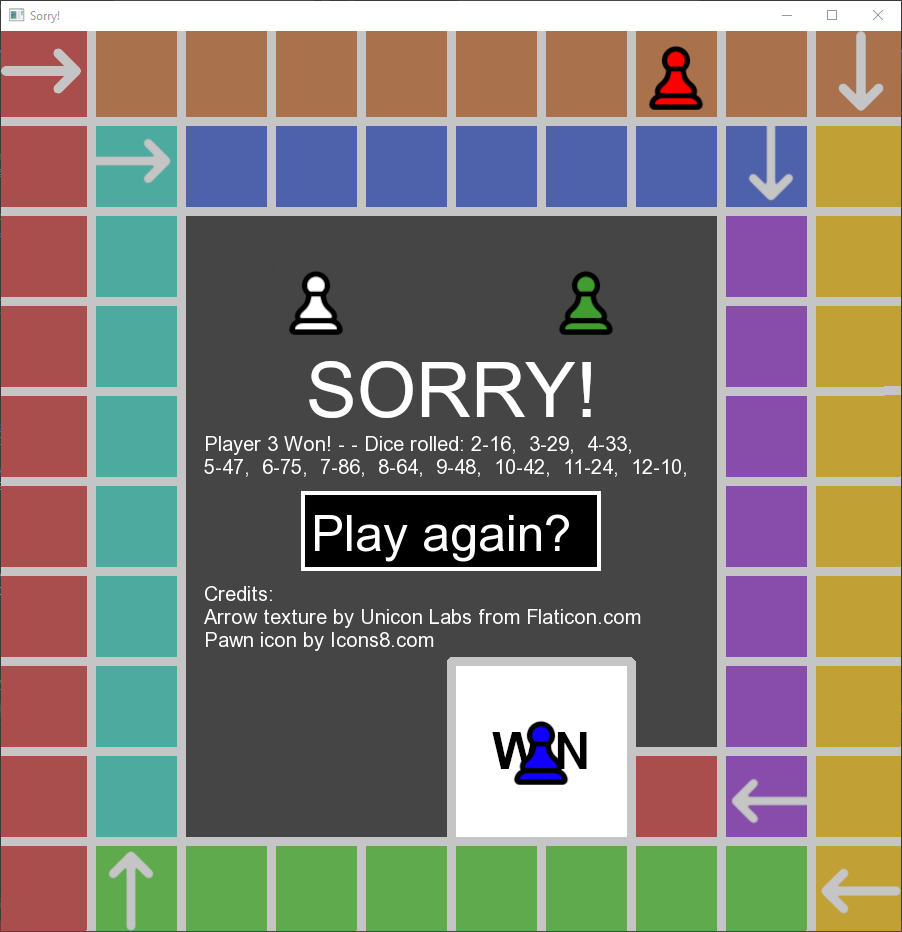
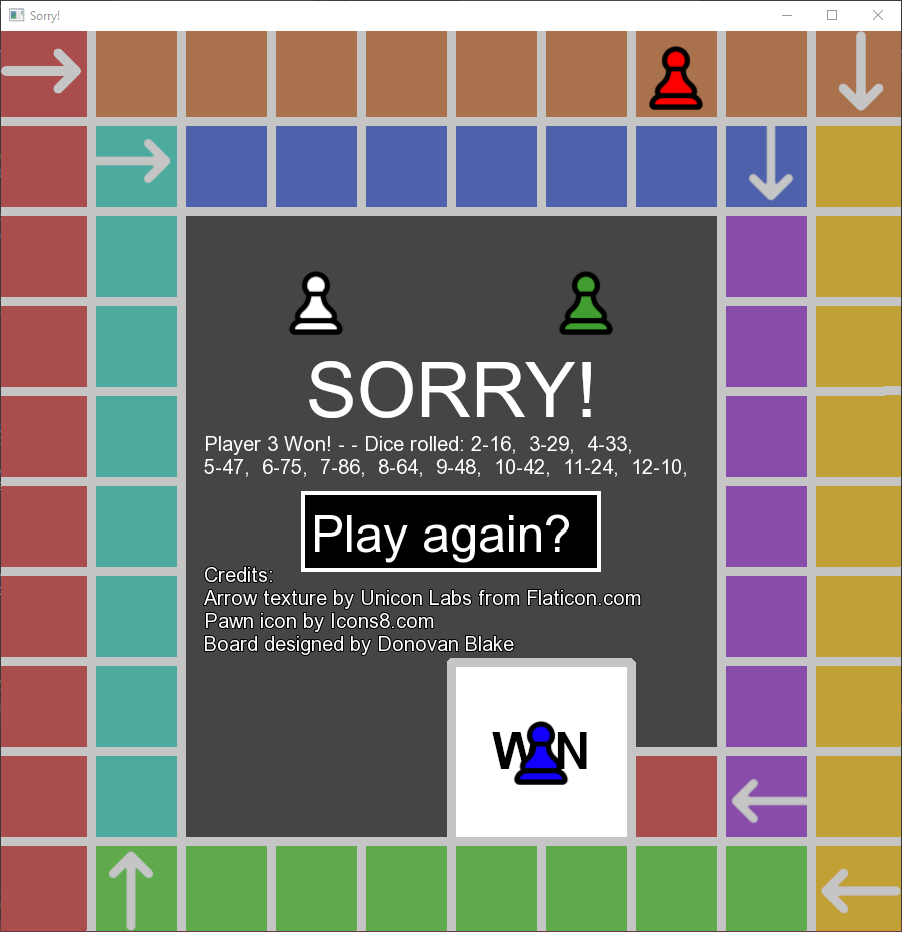
adding screenshots

Changed region(s): [[0.2173, 0.5601, 0.714, 0.7157], [0.5277, 0.5601, 0.5588, 0.5912], [0.4656, 0.5601, 0.4967, 0.5912]]

diff --git a/M08_Project.cpp b/M08_Project.cpp
@@ -434,7 +434,6 @@ int main()
 	sf::RenderWindow window{ {(size_t)Settings::windowSize.x, (size_t)Settings::windowSize.y},"Sorry!"};
 	Settings::initialize();
 
-
 	bool exit{};
 	while (!exit)
 	{
@@ -461,7 +460,7 @@ int main()
 		result.setPosition({ 203.f,530.f });
 
 		// Play the game
-		GameState state{};
+		GameState state{GameState::Ready};
 		size_t playerTurn{};
 		bool rollAgain{};
 		while (state != GameState::Done && !exit)
@@ -687,8 +686,10 @@ int main()
 
 		// Display end credits
 		Button_t playagain{ {300.f,460.f},{300.f,80.f}, "Play again?" };
-		sf::Text credits{ "Credits:\nArrow texture by Unicon Labs from Flaticon.com\nPawn icon by Icons8.com", Settings::font, 20u };
-		credits.setPosition({ 203.f, 550.f });
+		sf::Text credits{ "Credits:\nArrow texture by Unicon Labs from Flaticon.com\nPawn icon by Icons8.com\nBoard designed by Donovan Blake", Settings::font, 20u };
+		credits.setPosition({ 203.f, 530.f });
+		credits.setOutlineColor(sf::Color::Black);
+		credits.setOutlineThickness(1);
 		bool clicked{};
 		while (!exit && !clicked)
 		{
